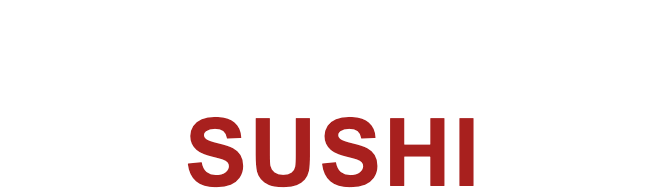
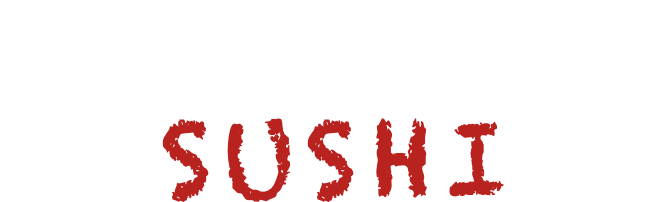
Wordmark: SUSHI in Chalkduster red, same face as ICHIBAN
Claude-Session: https://claude.ai/code/session_01WBC8yeRnLXoAdNjFECcYt9

Changed region(s): [[0.2388, 0.5851, 0.7761, 1.0]]

diff --git a/public/meny.html b/public/meny.html
@@ -19,7 +19,7 @@
   <div class="bar">
     <a class="brand" href="/">
       <img class="logo-badge" src="/assets/img/site/logo-192.png" alt="" width="46" height="46">
-      <img class="wordmark" src="/assets/img/site/wordmark.png" alt="Ichiban Sushi" width="157" height="44">
+      <img class="wordmark" src="/assets/img/site/wordmark.png" alt="Ichiban Sushi" width="146" height="44">
     </a>
     <button class="nav-toggle" aria-label="Meny" aria-expanded="false">☰</button>
     <nav class="nav" aria-label="Huvudmeny">
@@ -49,7 +49,7 @@
   <div class="wrap">
     <div class="cols">
       <div>
-        <a class="brand" href="/"><img class="logo-badge" src="/assets/img/site/logo-192.png" alt="" width="46" height="46"><img class="wordmark" src="/assets/img/site/wordmark.png" alt="Ichiban Sushi" width="157" height="44"></a>
+        <a class="brand" href="/"><img class="logo-badge" src="/assets/img/site/logo-192.png" alt="" width="46" height="46"><img class="wordmark" src="/assets/img/site/wordmark.png" alt="Ichiban Sushi" width="146" height="44"></a>
         <p class="muted" style="max-width:38ch;margin-top:0.8rem">Familjeägd sushirestaurang i Göteborg sedan 2017.</p>
       </div>
       <div>

diff --git a/public/index.html b/public/index.html
@@ -19,7 +19,7 @@
   <div class="bar">
     <a class="brand" href="/">
       <img class="logo-badge" src="/assets/img/site/logo-192.png" alt="" width="46" height="46">
-      <img class="wordmark" src="/assets/img/site/wordmark.png" alt="Ichiban Sushi" width="157" height="44">
+      <img class="wordmark" src="/assets/img/site/wordmark.png" alt="Ichiban Sushi" width="146" height="44">
     </a>
     <button class="nav-toggle" aria-label="Meny" aria-expanded="false">☰</button>
     <nav class="nav" aria-label="Huvudmeny">
@@ -183,7 +183,7 @@
       <div>
         <a class="brand" href="/" style="margin-bottom:1rem">
           <img class="logo-badge" src="/assets/img/site/logo-192.png" alt="" width="46" height="46">
-          <img class="wordmark" src="/assets/img/site/wordmark.png" alt="Ichiban Sushi" width="157" height="44">
+          <img class="wordmark" src="/assets/img/site/wordmark.png" alt="Ichiban Sushi" width="146" height="44">
         </a>
         <p class="muted" style="max-width:38ch;margin-top:0.8rem">Familjeägd sushirestaurang i Göteborg sedan 2017. Bland stadens fem bästa — enligt våra gäster.</p>
       </div>

diff --git a/public/bestall.html b/public/bestall.html
@@ -19,7 +19,7 @@
   <div class="bar">
     <a class="brand" href="/">
       <img class="logo-badge" src="/assets/img/site/logo-192.png" alt="" width="46" height="46">
-      <img class="wordmark" src="/assets/img/site/wordmark.png" alt="Ichiban Sushi" width="157" height="44">
+      <img class="wordmark" src="/assets/img/site/wordmark.png" alt="Ichiban Sushi" width="146" height="44">
     </a>
     <button class="nav-toggle" aria-label="Meny" aria-expanded="false">☰</button>
     <nav class="nav" aria-label="Huvudmeny">

diff --git a/public/boka.html b/public/boka.html
@@ -19,7 +19,7 @@
   <div class="bar">
     <a class="brand" href="/">
       <img class="logo-badge" src="/assets/img/site/logo-192.png" alt="" width="46" height="46">
-      <img class="wordmark" src="/assets/img/site/wordmark.png" alt="Ichiban Sushi" width="157" height="44">
+      <img class="wordmark" src="/assets/img/site/wordmark.png" alt="Ichiban Sushi" width="146" height="44">
     </a>
     <button class="nav-toggle" aria-label="Meny" aria-expanded="false">☰</button>
     <nav class="nav" aria-label="Huvudmeny">

diff --git a/public/integritet.html b/public/integritet.html
@@ -17,7 +17,7 @@
   <div class="bar">
     <a class="brand" href="/">
       <img class="logo-badge" src="/assets/img/site/logo-192.png" alt="" width="46" height="46">
-      <img class="wordmark" src="/assets/img/site/wordmark.png" alt="Ichiban Sushi" width="157" height="44">
+      <img class="wordmark" src="/assets/img/site/wordmark.png" alt="Ichiban Sushi" width="146" height="44">
     </a>
     <button class="nav-toggle" aria-label="Meny" aria-expanded="false">☰</button>
     <nav class="nav" aria-label="Huvudmeny">

diff --git a/public/om.html b/public/om.html
@@ -19,7 +19,7 @@
   <div class="bar">
     <a class="brand" href="/">
       <img class="logo-badge" src="/assets/img/site/logo-192.png" alt="" width="46" height="46">
-      <img class="wordmark" src="/assets/img/site/wordmark.png" alt="Ichiban Sushi" width="157" height="44">
+      <img class="wordmark" src="/assets/img/site/wordmark.png" alt="Ichiban Sushi" width="146" height="44">
     </a>
     <button class="nav-toggle" aria-label="Meny" aria-expanded="false">☰</button>
     <nav class="nav" aria-label="Huvudmeny">

diff --git a/public/order.html b/public/order.html
@@ -18,7 +18,7 @@
   <div class="bar">
     <a class="brand" href="/">
       <img class="logo-badge" src="/assets/img/site/logo-192.png" alt="" width="46" height="46">
-      <img class="wordmark" src="/assets/img/site/wordmark.png" alt="Ichiban Sushi" width="157" height="44">
+      <img class="wordmark" src="/assets/img/site/wordmark.png" alt="Ichiban Sushi" width="146" height="44">
     </a>
   </div>
 </header>
